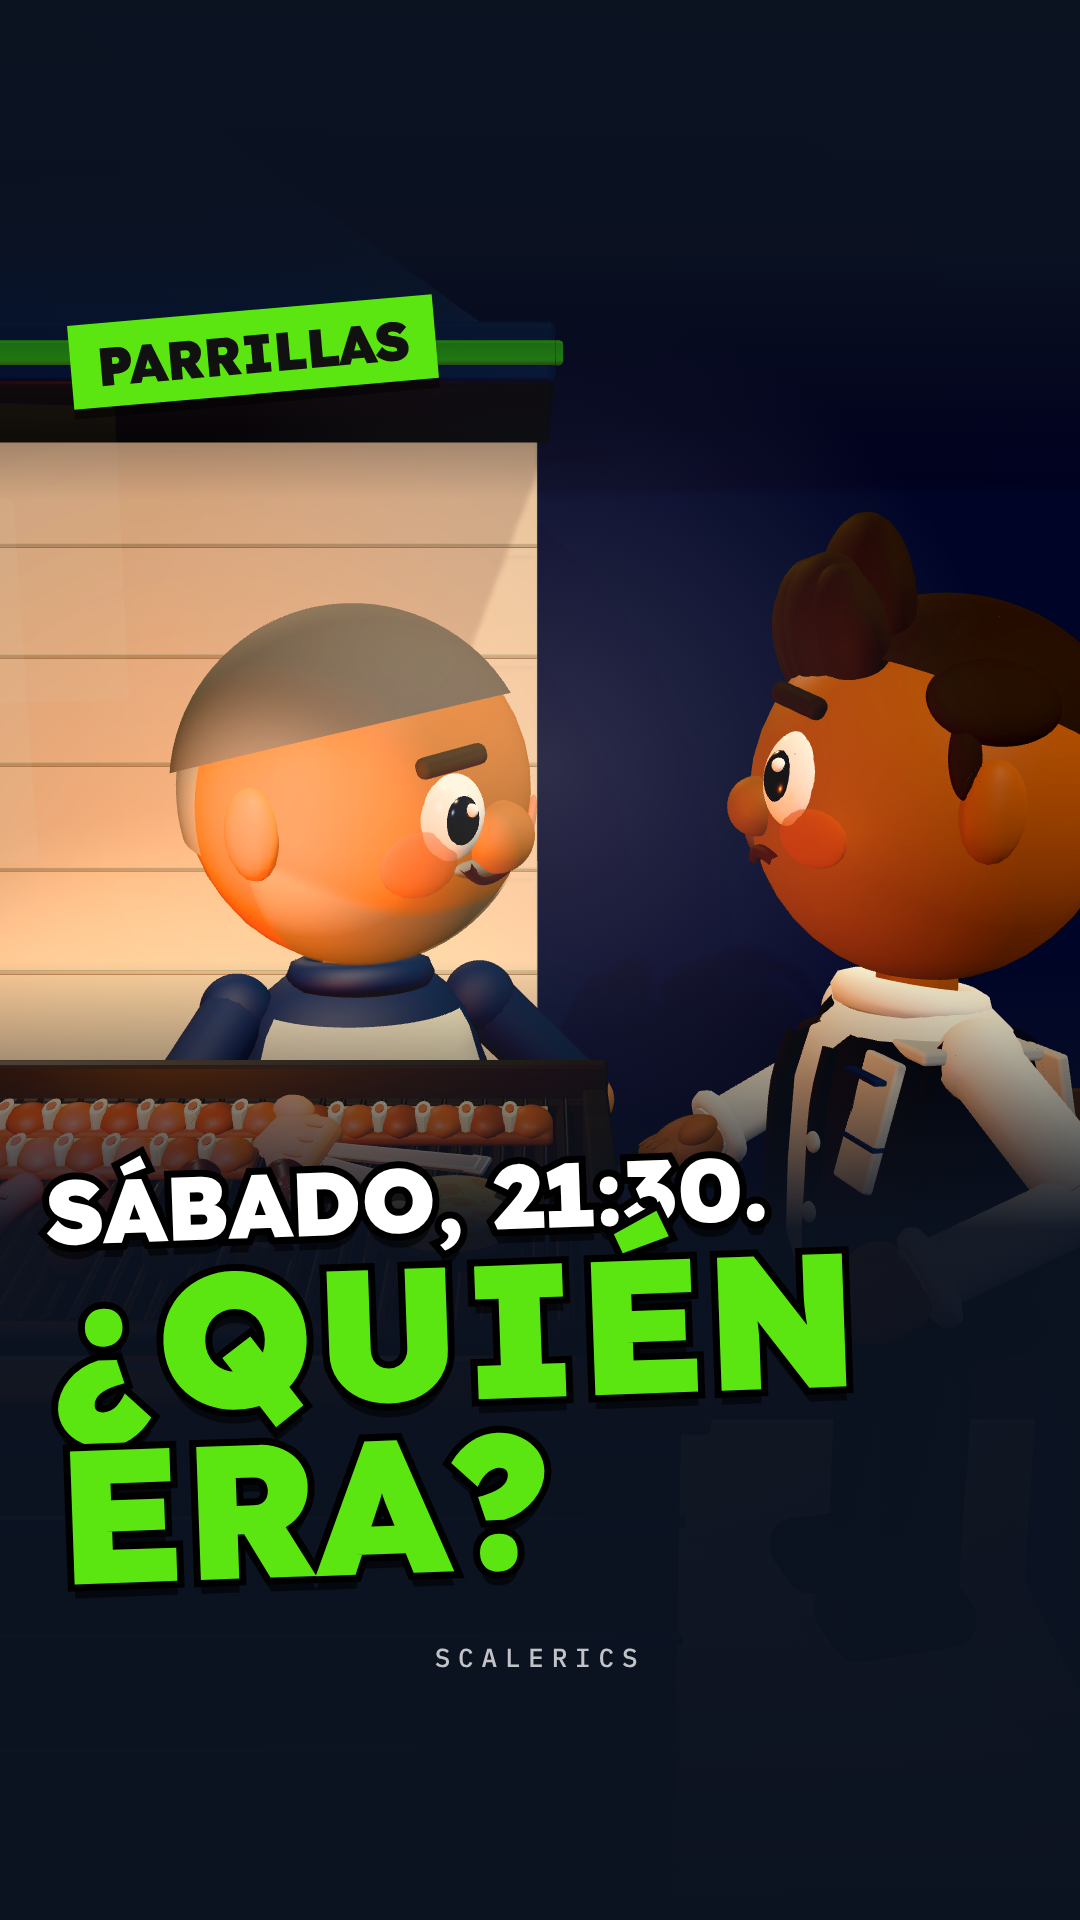
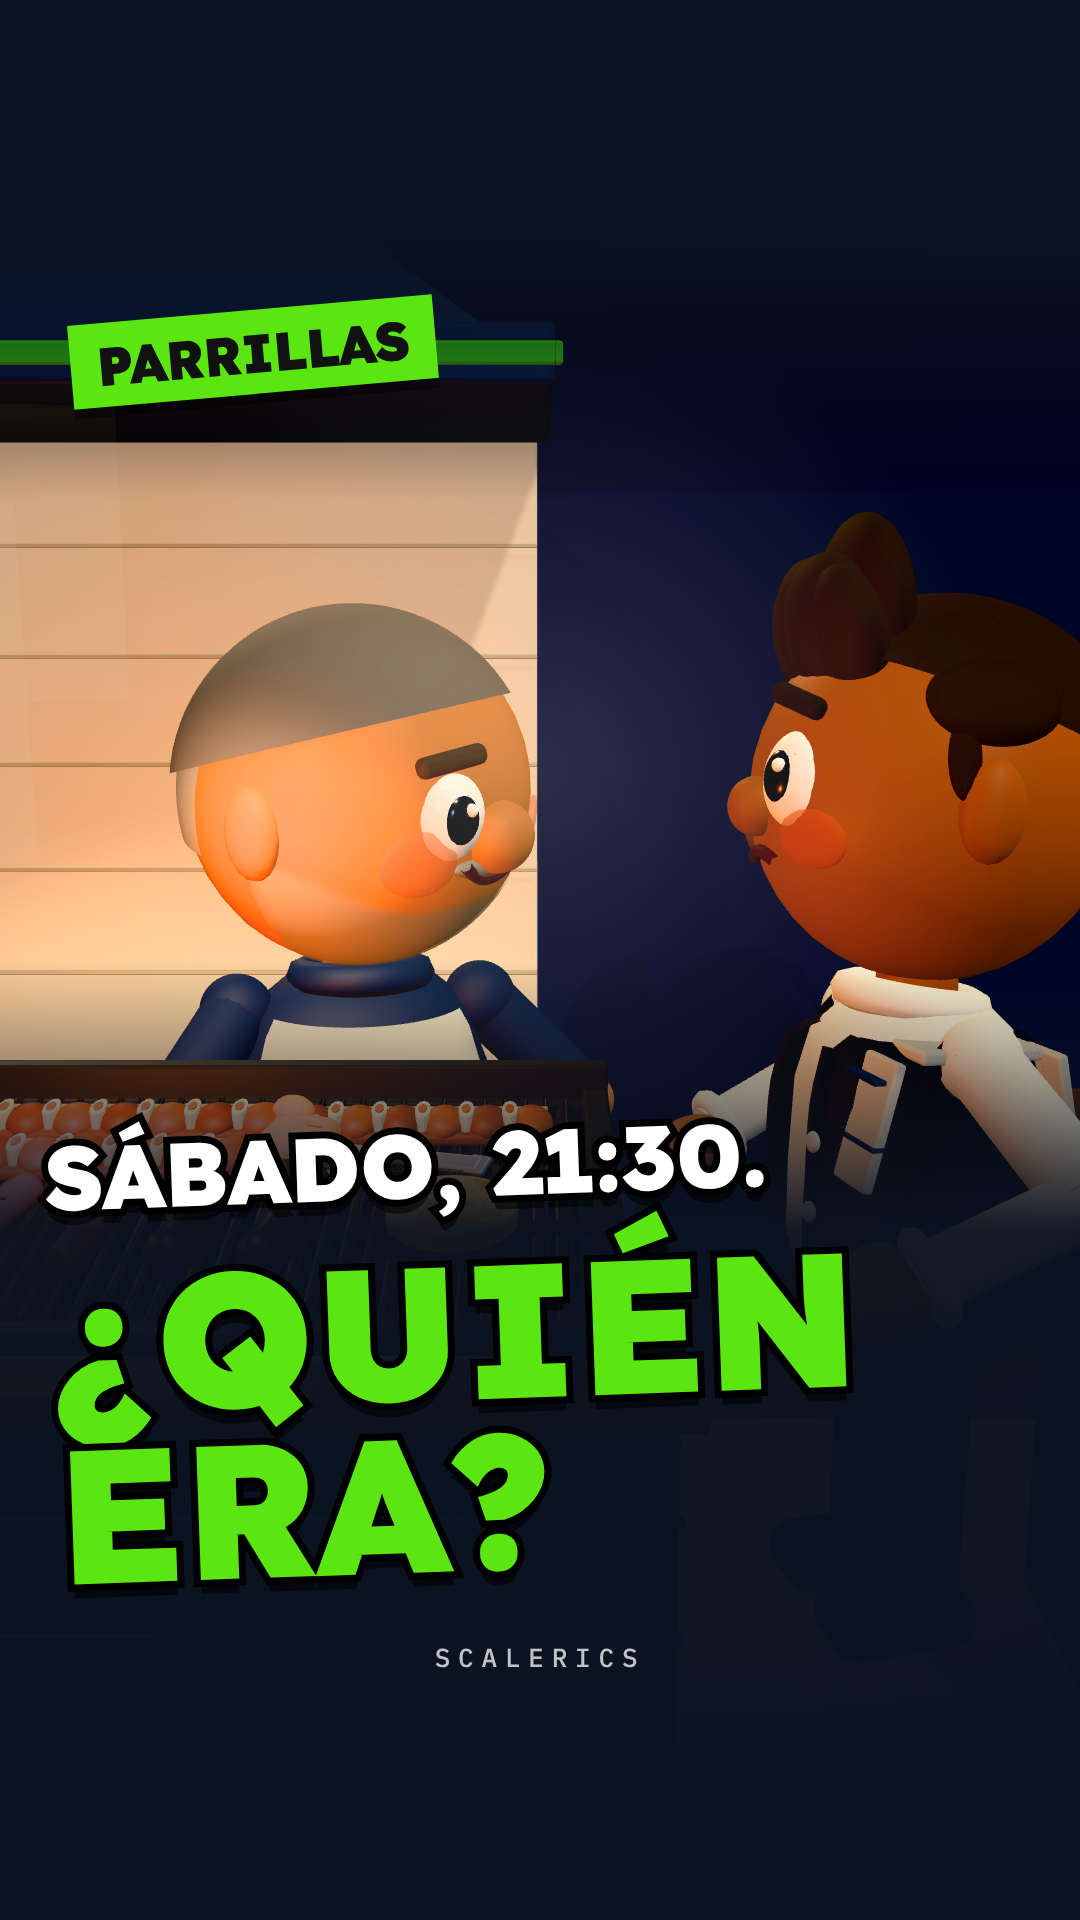
wip: parrilla-no-vuelve (retoque final)

Changed region(s): [[0.0306, 0.5625, 0.7333, 0.6562]]

diff --git a/reels/parrilla-no-vuelve/assets/tres.js b/reels/parrilla-no-vuelve/assets/tres.js
@@ -1089,7 +1089,7 @@ function recorrido(t, K) {
   const L = K[K.length - 1]; return { x: L[1], z: L[2], giro: null, anda: false };
 }
 const W_P1 = { x: -0.02, z: -2.12 }, F_PASO = { x: 0.0, z: -2.3 }, F_IZQ = { x: -1.85, z: -2.68 };
-const RAUL_P7 = [[T.p7, RAUL0.x, RAUL0.z], [r2(T.p7 + 0.5), -0.1, -2.42], [r2(T.p7 + 1.1), -0.05, -1.55], [r2(T.r4 - 0.1), 0.32, -1.66]];
+const RAUL_P7 = [[T.p7, RAUL0.x, RAUL0.z], [r2(T.p7 + 0.5), -0.1, -2.42], [r2(T.p7 + 1.1), -0.05, -1.55], [r2(T.r4 - 0.1), 0.24, -1.64]];
 const WALTER_P7 = [[T.entra[0], PUERTA.x + 0.2, GZ + 0.3], [T.entra[1], 1.38, -1.86]];
 const WALTER_Q4 = [[T.entra2[0], PUERTA.x + 0.2, GZ + 0.3], [T.entra2[1], 1.3, -1.6]];
 const F_P5 = { x: 1.05, z: -0.3 }, F_P7 = { x: 1.6, z: 1.0 };
@@ -1112,13 +1112,14 @@ function poseRaul(t) {
       [T.p5, { giro: 0.35, ...aC(0.55, 0.0), ...SECO, ...PARRILLA }, 0.01],
       [T.p6b, { giro: 0, ...aC(0, 0.32), ...SECO, manoI: [0.1, 0.36, 0.34], codoI: [0.8, -0.6, -0.2], manoD: [-0.25, 0.1, 0.25] }, 0.01],
       [T.r3 + 0.05, { ...aC(0.05, 0.08) }, 0.25],
-      [T.p7, { ...BUENA, ...BRAZOS.costado, manoD: [-0.42, 0.55, 0.18], codoD: [-0.6, -1, 0], ...aC(0, 0) }, 0.01],
-      [T.r4 - 0.15, { manoI: [0.5, 0.22, 0.24], manoD: [-0.5, 0.22, 0.24], codoI: [1, -0.8, -0.3], codoD: [-1, -0.8, -0.3], inclina: -0.04, ...CARA.feliz }, 0.25],
+      [T.p7, { ...BUENA, ...BRAZOS.costado, manoD: [-0.38, 0.6, 0.02], codoD: [-0.6, -1, 0], ...aC(0, 0) }, 0.01],   // (retoque) la pinza vertical al costado mientras camina
+      [T.r4 - 0.15, { manoI: [0.5, 0.22, 0.24], manoD: [-0.52, 0.2, 0.04], codoI: [1, -0.8, -0.3], codoD: [-1, -0.8, 0.2], inclina: -0.04, ...CARA.feliz }, 0.3],   // (retoque) la derecha (pinza) hacia el costado, no hacia Walter
       [T.mira, { ...aC(-0.7, 0.05), ...CONGELADA }, 0.2],
     ]);
     if (t >= T.p7) {
       const r = recorrido(t, RAUL_P7); p.x = r.x; p.z = r.z; p.paso = r.anda ? 1 : 0;
       p.giro = r.giro ?? (t >= RAUL_P7.at(-1)[0] ? Math.PI / 2 - 0.45 : 0);
+      { const tL = RAUL_P7.at(-1)[0], a = RAUL_P7.at(-2), b = RAUL_P7.at(-1), gSeg = giroA(a[1], a[2], b[1], b[2]); if (t >= tL - 0.15) p.giro = lerp(gSeg, Math.PI / 2 - 0.45, eio(sg(t, tL - 0.15, tL + 0.2))); }   // (retoque) el giro final en 0,35 s, sin salto
       
     }
     bocaVoz(p, t, T.r1, ENV.r1, 0.7); bocaVoz(p, t, T.r2, ENV.r2, 0.45); bocaVoz(p, t, T.r3, ENV.r3, 0.6); bocaVoz(p, t, T.r4, ENV.r4, 0.75);
@@ -1189,7 +1190,7 @@ function poseWalter(t) {
     bocaVoz(p, t, T.w1b, ENV.w1, 0.8);
   } else if (t < T.q4b) {
     const r = recorrido(t, WALTER_Q4);
-    p = poseEn(t, [[0, { x: r.x, z: r.z, giro: r.giro ?? -1.25, ...aC(-0.45, 0), ...CARA.feliz, manoI: [0.4, 0.55, 0.2], manoD: [-0.4, 0.55, 0.2], codoI: [1, -0.4, 0], codoD: [-1, -0.4, 0] }]]);
+    p = poseEn(t, [[0, { x: r.x, z: r.z, giro: r.giro ?? -1.25, ...aC(-0.45, 0), ...CARA.feliz, manoI: [0.44, 0.18, 0.2], manoD: [-0.44, 0.18, 0.2], codoI: [1, -0.7, 0], codoD: [-1, -0.7, 0] }]]);   // (retoque) las manos abajo, lejos de la boca
     p.paso = r.anda ? 1 : 0; if (r.giro !== null) p.giro = r.giro;
     bocaVoz(p, t, T.w2b, ENV.w2, 0.8);
   } else {

diff --git a/reels/parrilla-no-vuelve/NOTAS-constructor.md b/reels/parrilla-no-vuelve/NOTAS-constructor.md
@@ -144,3 +144,13 @@ sobre la mesa de Graciela).
 Revisado: pasada completa cada 0,5 s (renders/snap/r2p1-r2p4) y, después del ajuste final del pelo (sin los parches de las
 sienes, que se veían como un disco claro) y del logo de Sofi (más chico y adentro del cuadro), r2b. Mezcla: voz ≥ +14,5 LU,
 -14,0 LUFS. `check --json`: 0 errores. Portada regenerada.
+
+## Retoque final (16-11, después de la ronda 3)
+1. Portada: el acento de "¿QUIÉN" pisaba el "3" de "21:30." → `portada.json` con `"separacion": 34` (opción nueva y
+   opcional de herramientas/portada.mjs: margen entre la línea chica y la grande; sin la clave, nada cambia para los otros
+   reels). portada.png regenerada y revisada.
+2. 14,1-14,8: Raúl gira hacia Walter en 0,35 s (mezcla del rumbo de la caminata al de frente, sin salto en un cuadro);
+   camina con la pinza vertical al costado y al abrir los brazos la derecha (la de la pinza) va al costado, no hacia Walter:
+   la pinza no toca la mano de Walter. Llega 8 cm más lejos.
+3. Q4 (28,8-29,8): Walter dice "¿Te acordás de mí?" con las manos abajo, lejos de la boca.
+Revisado cuadro por cuadro: renders/snap/ret2 (14,1-14,8 a 30 fps) y ret3 (28,8-29,8 cada 0,1 s). `check --json`: 0 errores.
